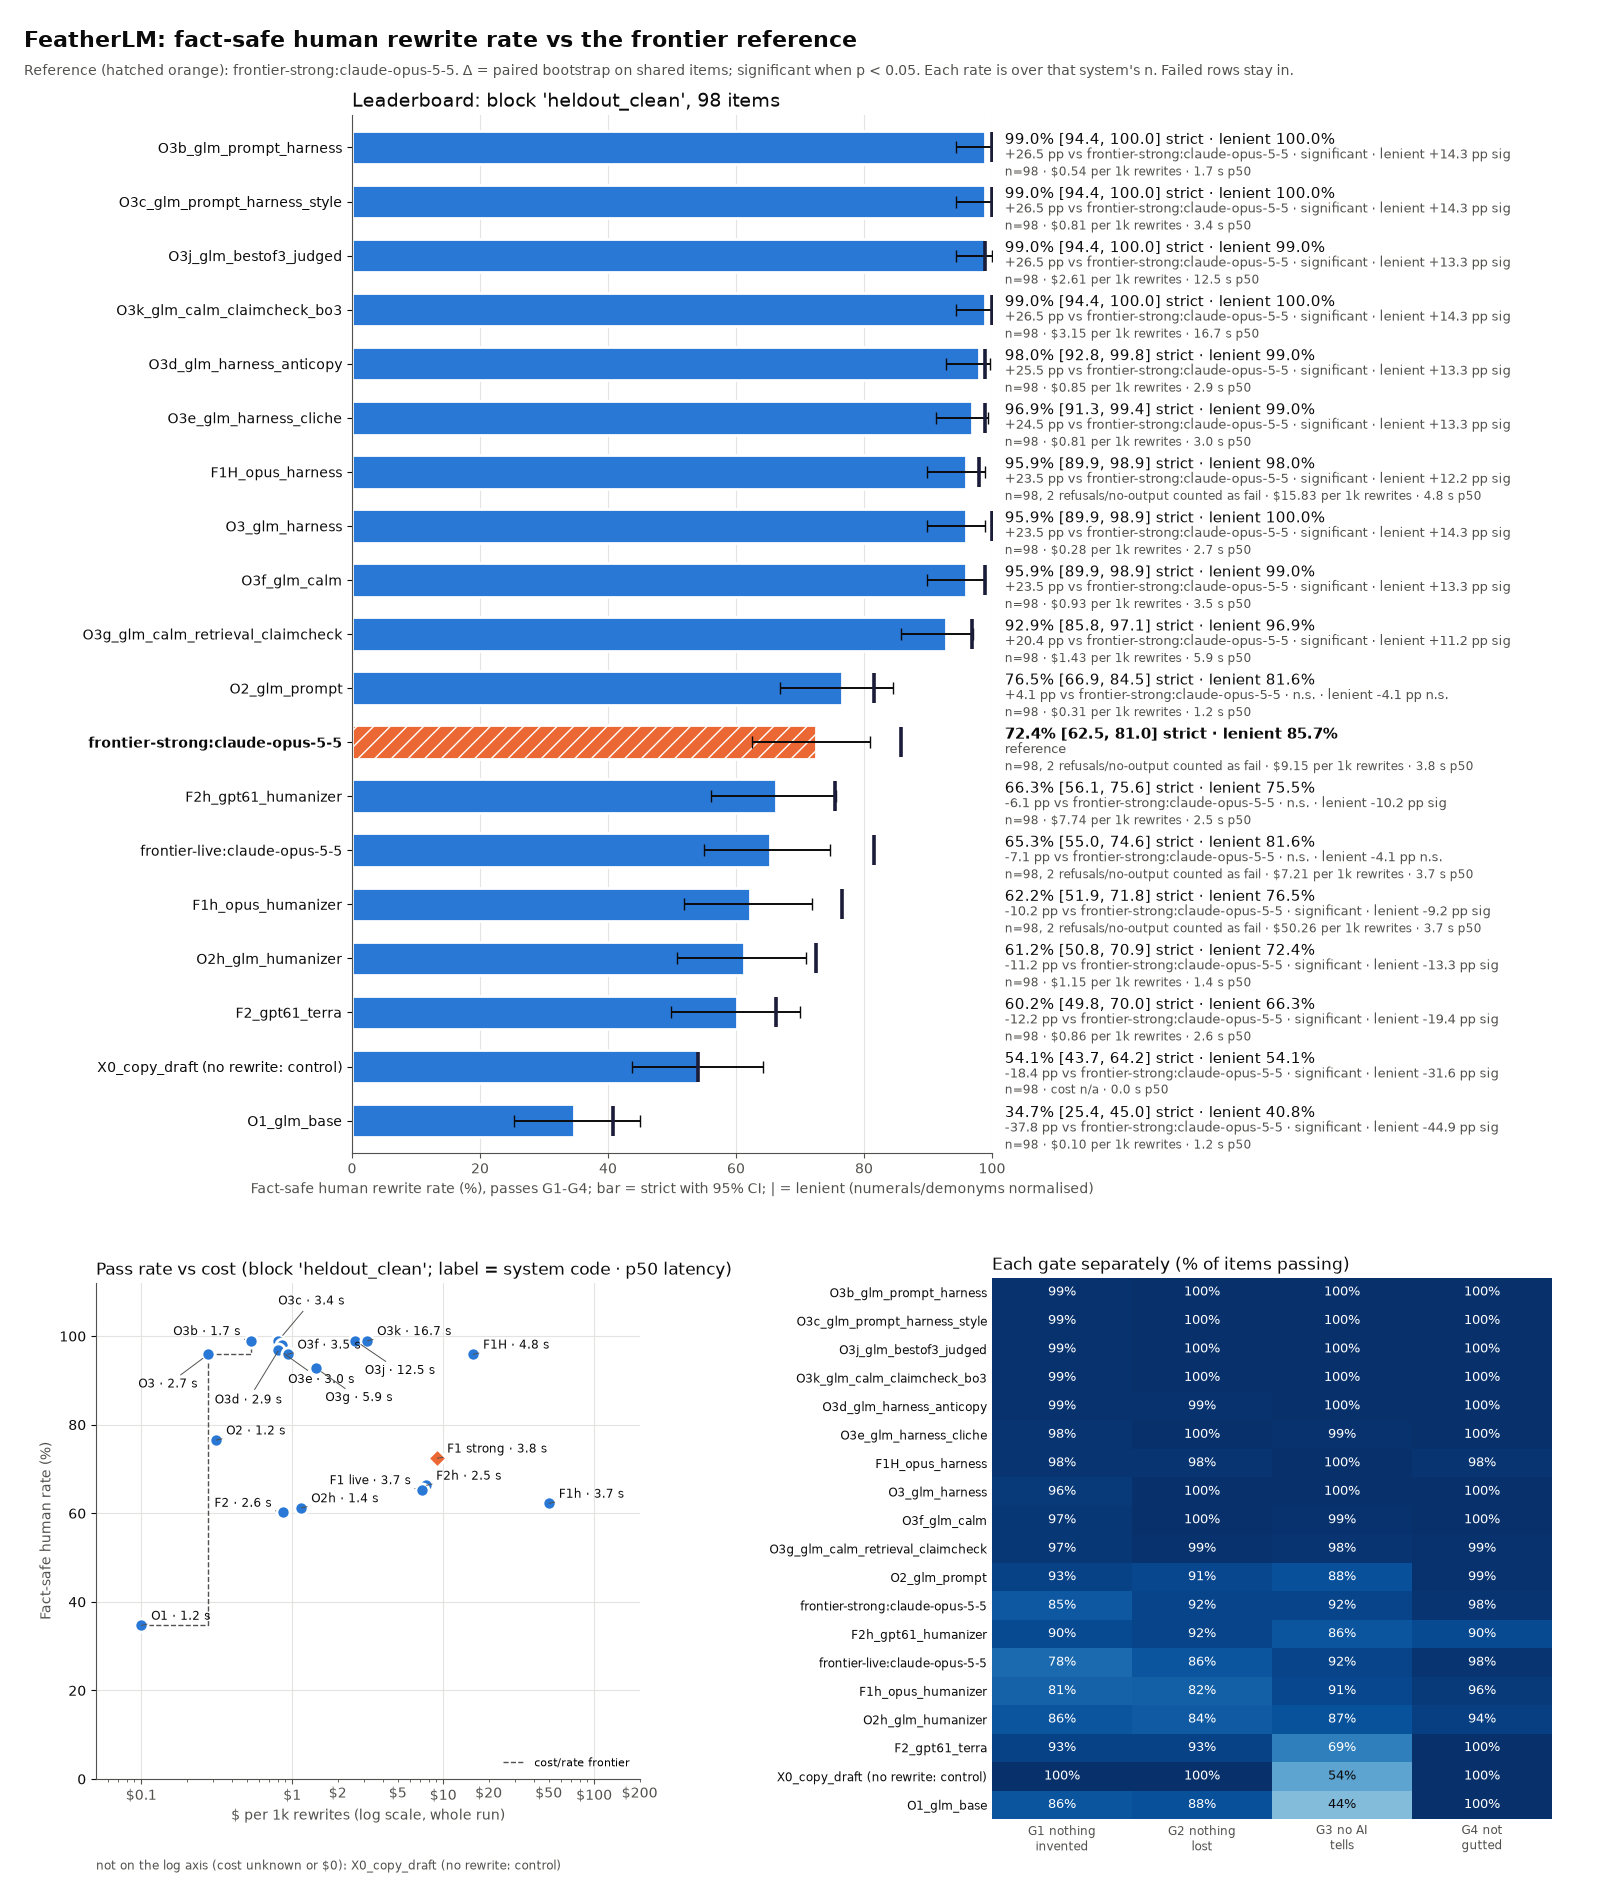
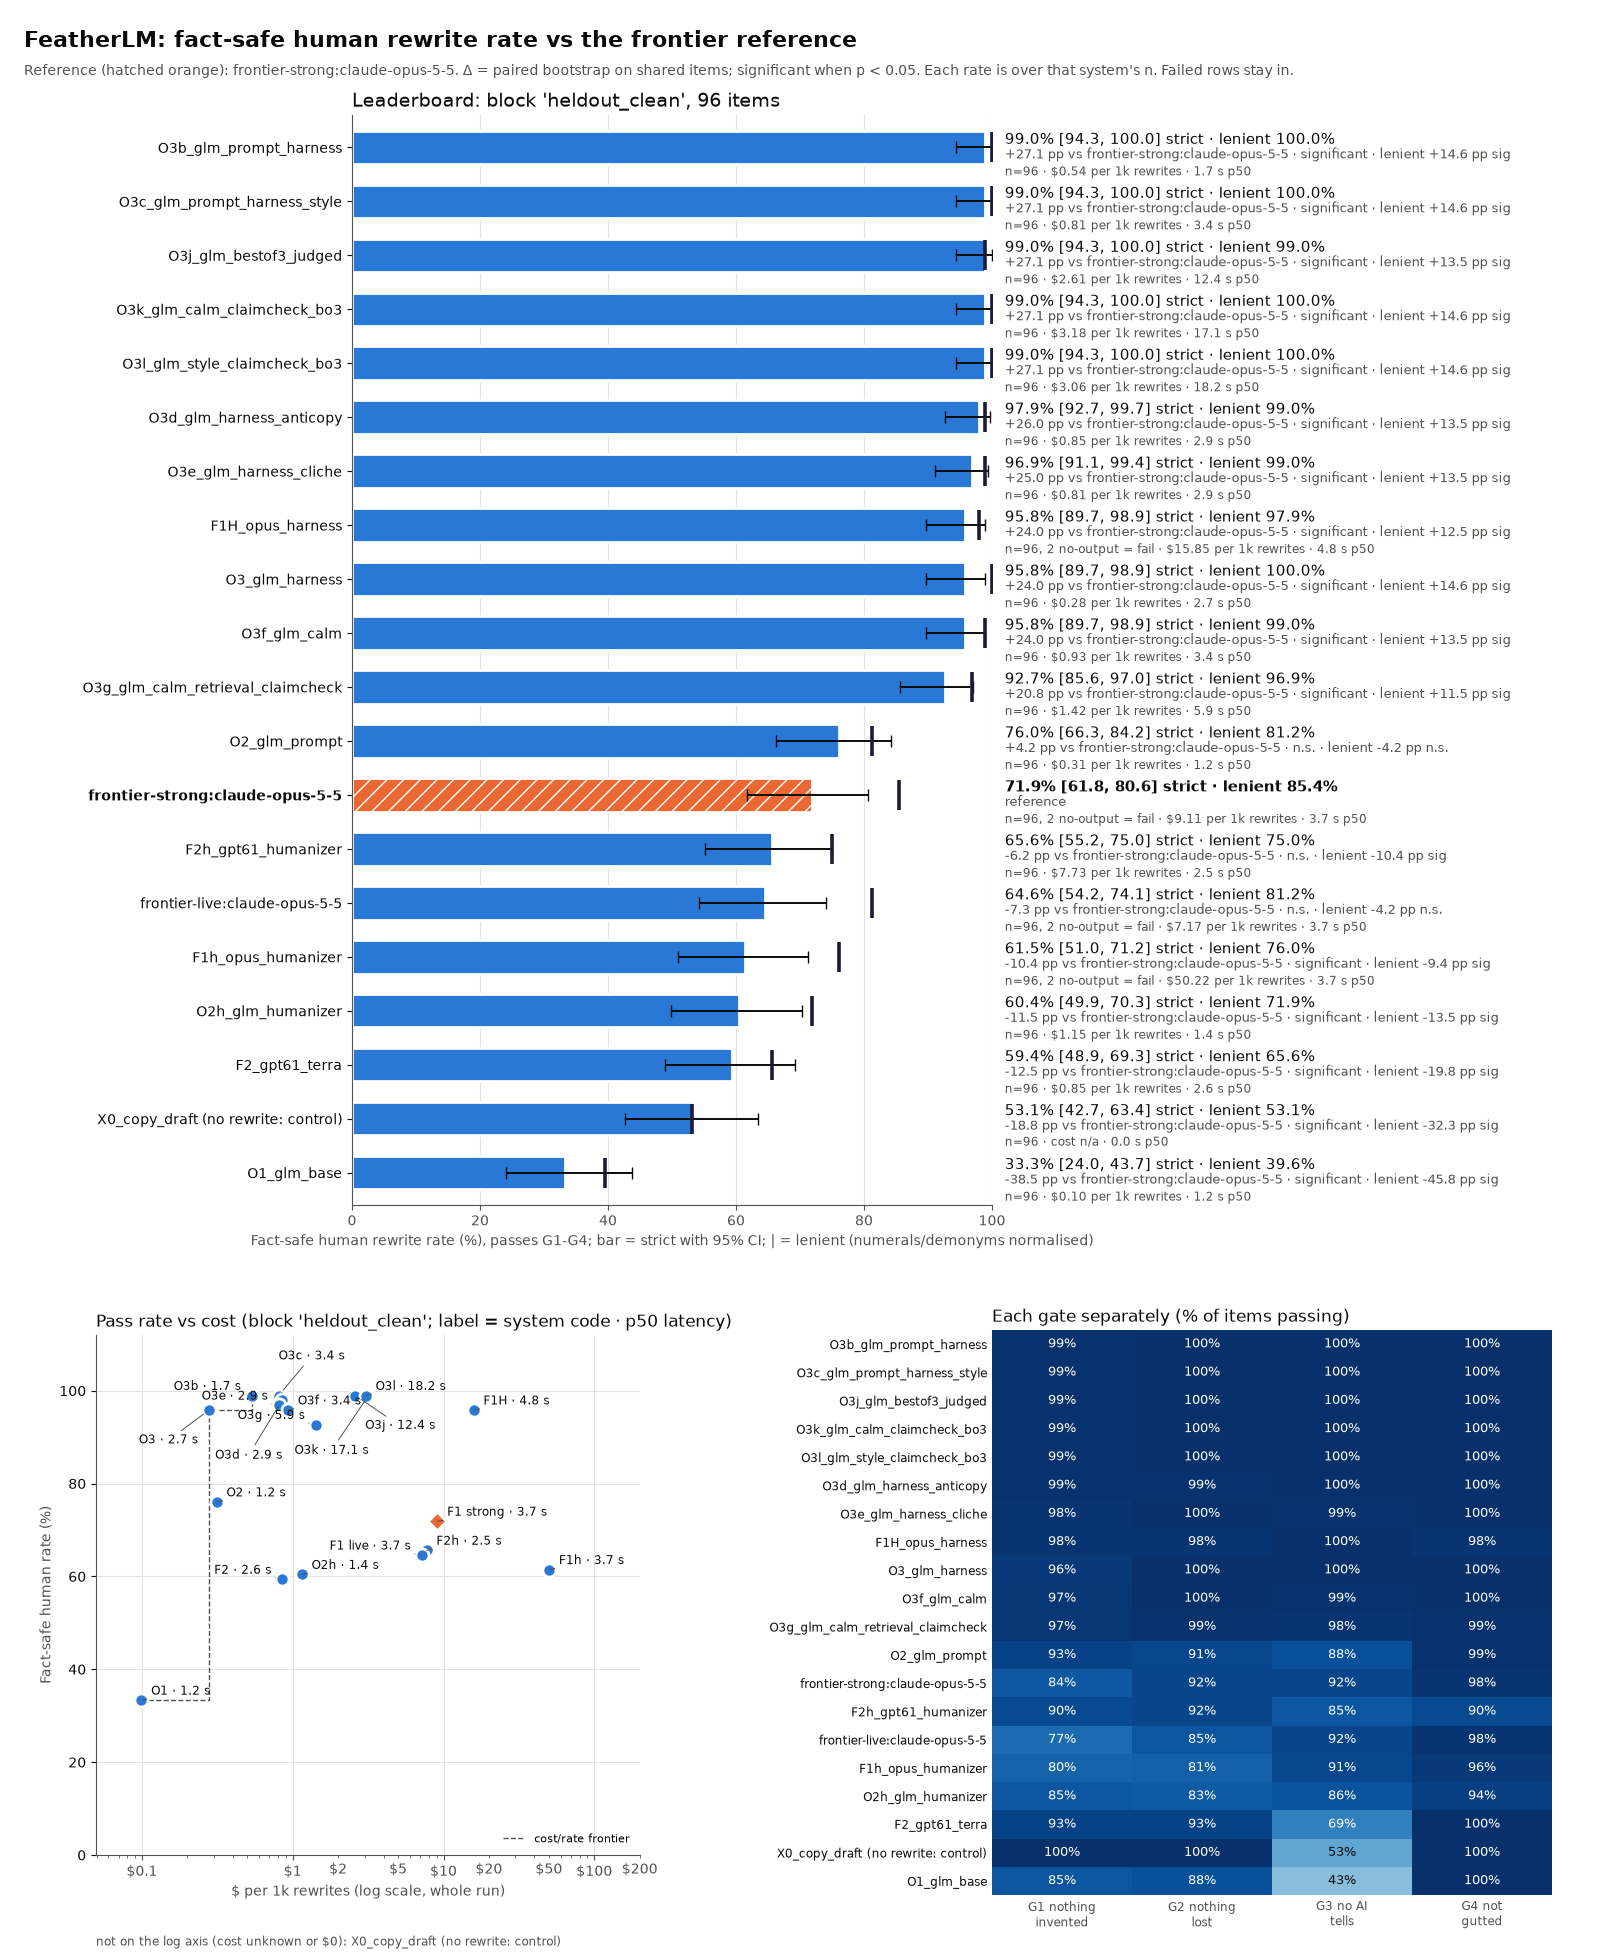
report: leaderboard from the VERIFY-fix make eval (21 systems); long names clipped, shorter coverage notes

diff --git a/hackathon/eval/plot.py b/hackathon/eval/plot.py
@@ -112,13 +112,12 @@ def gate_rows(block: dict) -> tuple[list[str], list[list[float]]]:
 def coverage_note(entry: dict, n_items) -> str:
     """'n=250', or 'n=130 of 250 items only' when the system never ran part of the block, plus counted refusals."""
     n = ((entry.get("summary") or {}).get("pass") or {}).get("n", entry.get("n", "?"))
-    note = f"n={n} of {n_items} items only" if entry.get("missing") else f"n={n}"
+    note = f"n={n} of {n_items} only" if entry.get("missing") else f"n={n}"
     shared = (entry.get("vs_reference") or {}).get("n_shared")
     if entry.get("missing") and shared:
-        note += f"; Δ on {shared} shared items"
+        note += f"; Δ on {shared} shared"
     if entry.get("counted_as_fail"):
-        k = entry["counted_as_fail"]
-        note += f", {k} refusal{'s' if k != 1 else ''}/no-output counted as fail"
+        note += f", {entry['counted_as_fail']} no-output = fail"  # refusals and empty outputs count as fails
     return note
 
 
@@ -156,7 +155,7 @@ def _leaderboard(ax, rows: list[tuple], name: str, n_items, notes: dict[str, str
         lr = (lenient.get(lab) or (None,))[0]
         if lr is not None:  # lenient rate as a tall tick across the bar
             ax.plot([lr], [yi], marker="|", markersize=22, markeredgewidth=2.6, color=LEN, zorder=4)
-    ax.set_yticks(y, [r[0] for r in rows])
+    ax.set_yticks(y, [clip(r[0]) for r in rows])
     for t, row in zip(ax.get_yticklabels(), rows):
         t.set_fontweight("bold" if row[5] else "normal")
     ax.set_xlim(0, 100)
@@ -184,6 +183,11 @@ _SNUG = [(7, 4, "left"), (-8, 4, "right"), (7, -24, "left"), (-8, -24, "right")]
 _RINGS = [(round(d * math.cos(t)), round(d * math.sin(t)) - 8, "left" if math.cos(t) >= 0 else "right")
           for d in (34, 56, 80) for t in [k * math.pi / 4 for k in (0, 4, 1, 3, 7, 5, 2, 6)]]
 _SPOTS = _SNUG + _RINGS
+
+
+def clip(label: str, n: int = 36) -> str:
+    """Row label for the chart: long system names end in an ellipsis (the full name stays in results.json)."""
+    return label if len(label) <= n else label[: n - 1].rstrip("_ ") + "…"
 
 
 def short(label: str) -> str:
@@ -268,7 +272,7 @@ def _gates(ax, labels: list[str], mat: list[list[float]]) -> None:
             txt, dark = ("n/a", False) if math.isnan(v) else (f"{v:.0f}%", v >= 60)
             ax.text(j, i, txt, ha="center", va="center", fontsize=9, color="white" if dark else INK)
     ax.set_xticks(range(len(GATES)), [GATE_NAMES[g] for g in GATES], fontsize=8.5)
-    ax.set_yticks(range(len(labels)), labels, fontsize=8.5)
+    ax.set_yticks(range(len(labels)), [clip(lab) for lab in labels], fontsize=8.5)
     ax.tick_params(length=0)
     for s in ax.spines.values():
         s.set_visible(False)

diff --git a/hackathon/eval/test_plot.py b/hackathon/eval/test_plot.py
@@ -55,11 +55,11 @@ class TestNotes(unittest.TestCase):
 
     def test_coverage_note(self):
         full = dict(_entry("F1", 0.5), counted_as_fail=2)
-        self.assertEqual(pl.coverage_note(full, 250), "n=100, 2 refusals/no-output counted as fail")
+        self.assertEqual(pl.coverage_note(full, 250), "n=100, 2 no-output = fail")
         part = dict(_entry("P", 0.1, _vs(-0.3, 0.001)), missing=120)
         part["vs_reference"]["n_shared"] = 130
         part["summary"]["pass"]["n"] = 130
-        self.assertEqual(pl.coverage_note(part, 250), "n=130 of 250 items only; Δ on 130 shared items")
+        self.assertEqual(pl.coverage_note(part, 250), "n=130 of 250 only; Δ on 130 shared")
         self.assertEqual(pl.coverage_note(_entry("Q", 0.2), 100), "n=100")
 
     def test_lenient_bits(self):
@@ -70,6 +70,11 @@ class TestNotes(unittest.TestCase):
         r, head, delta = pl.lenient_bits(e)
         self.assertAlmostEqual(r, 98.0)
         self.assertEqual((head, delta), (" · lenient 98.0%", " · lenient +13.2 pp sig"))
+
+    def test_clip_long_labels(self):
+        self.assertEqual(pl.clip("O3c_glm_prompt_harness_style"), "O3c_glm_prompt_harness_style")
+        long = "WF_Pairwise_both_orders_knockout_selector_with_fact_aware_eligibility"
+        self.assertTrue(len(pl.clip(long)) <= 36 and pl.clip(long).endswith("…"))
 
     def test_short_labels(self):
         self.assertEqual([pl.short(x) for x in ("O3c_glm_prompt_harness_style", "F1H_opus_harness", "F1h_opus_humanizer",
